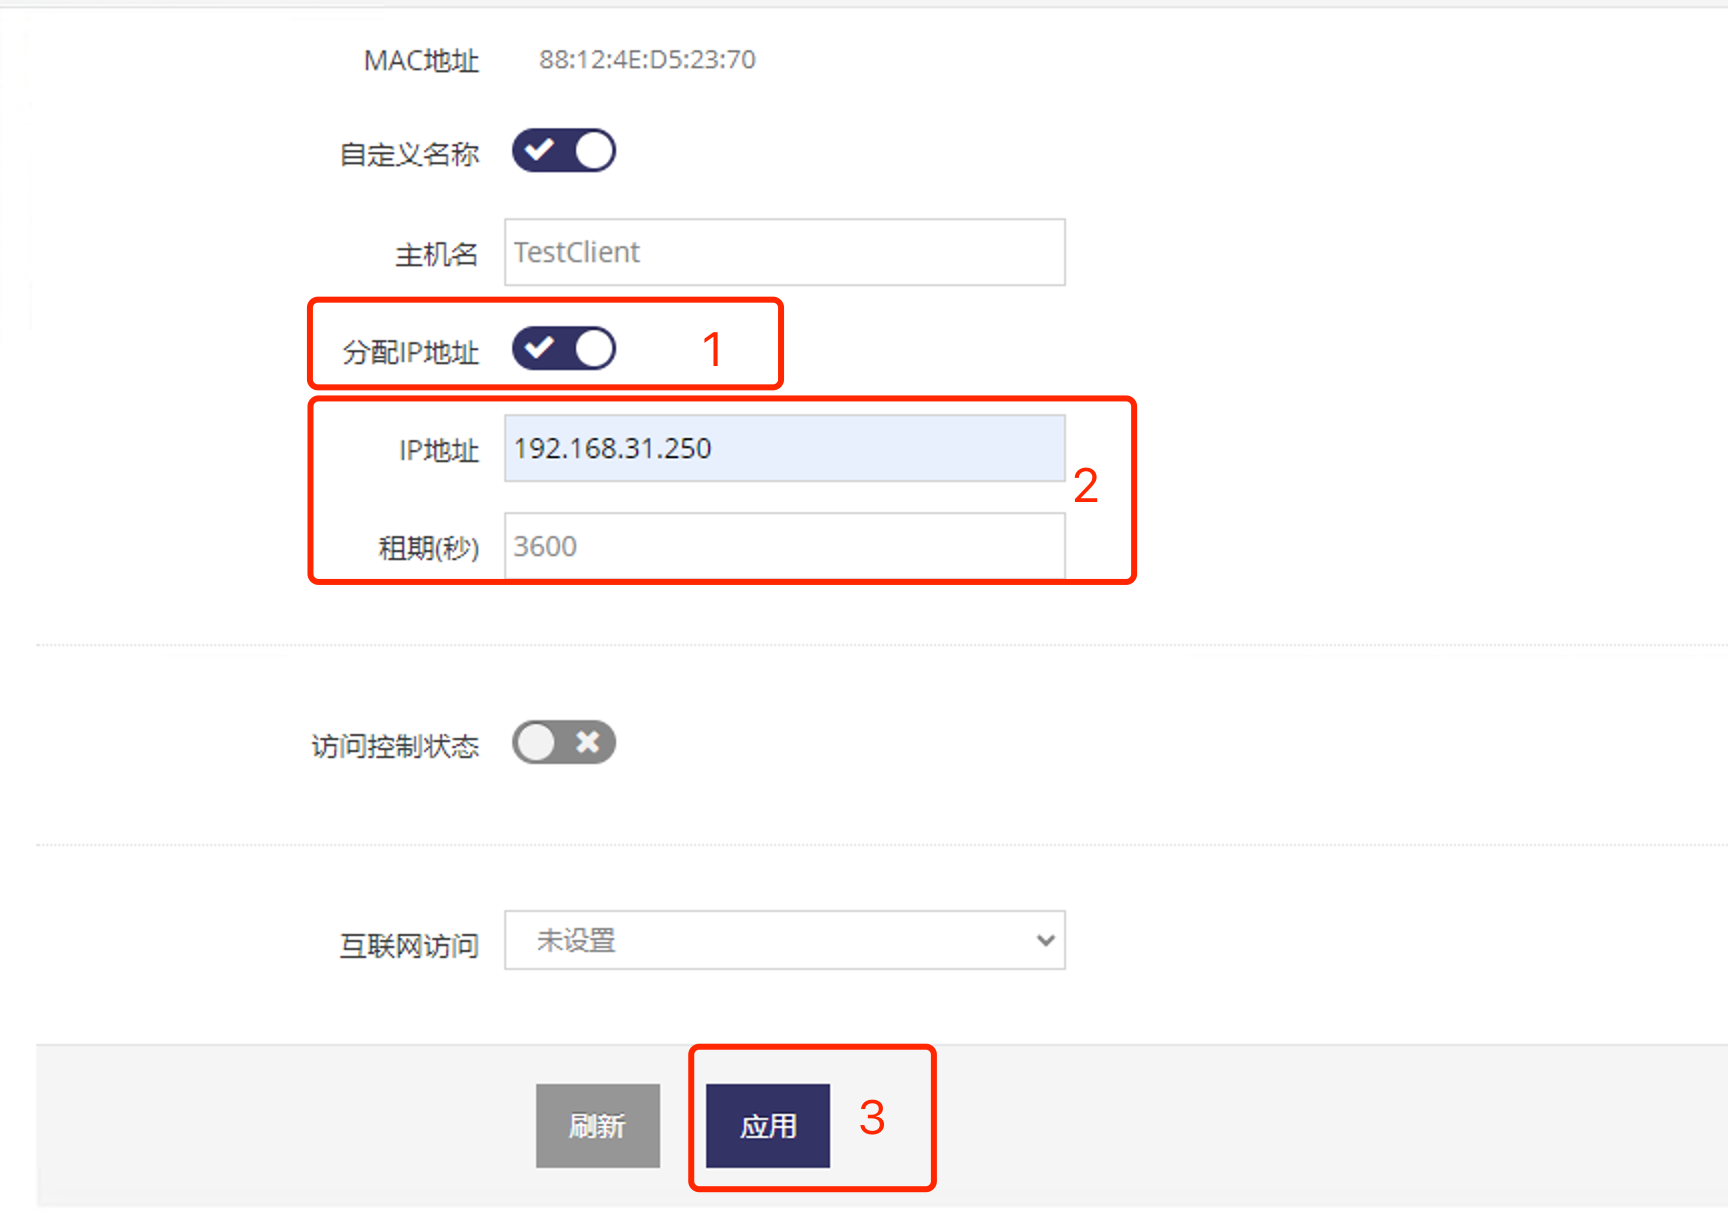
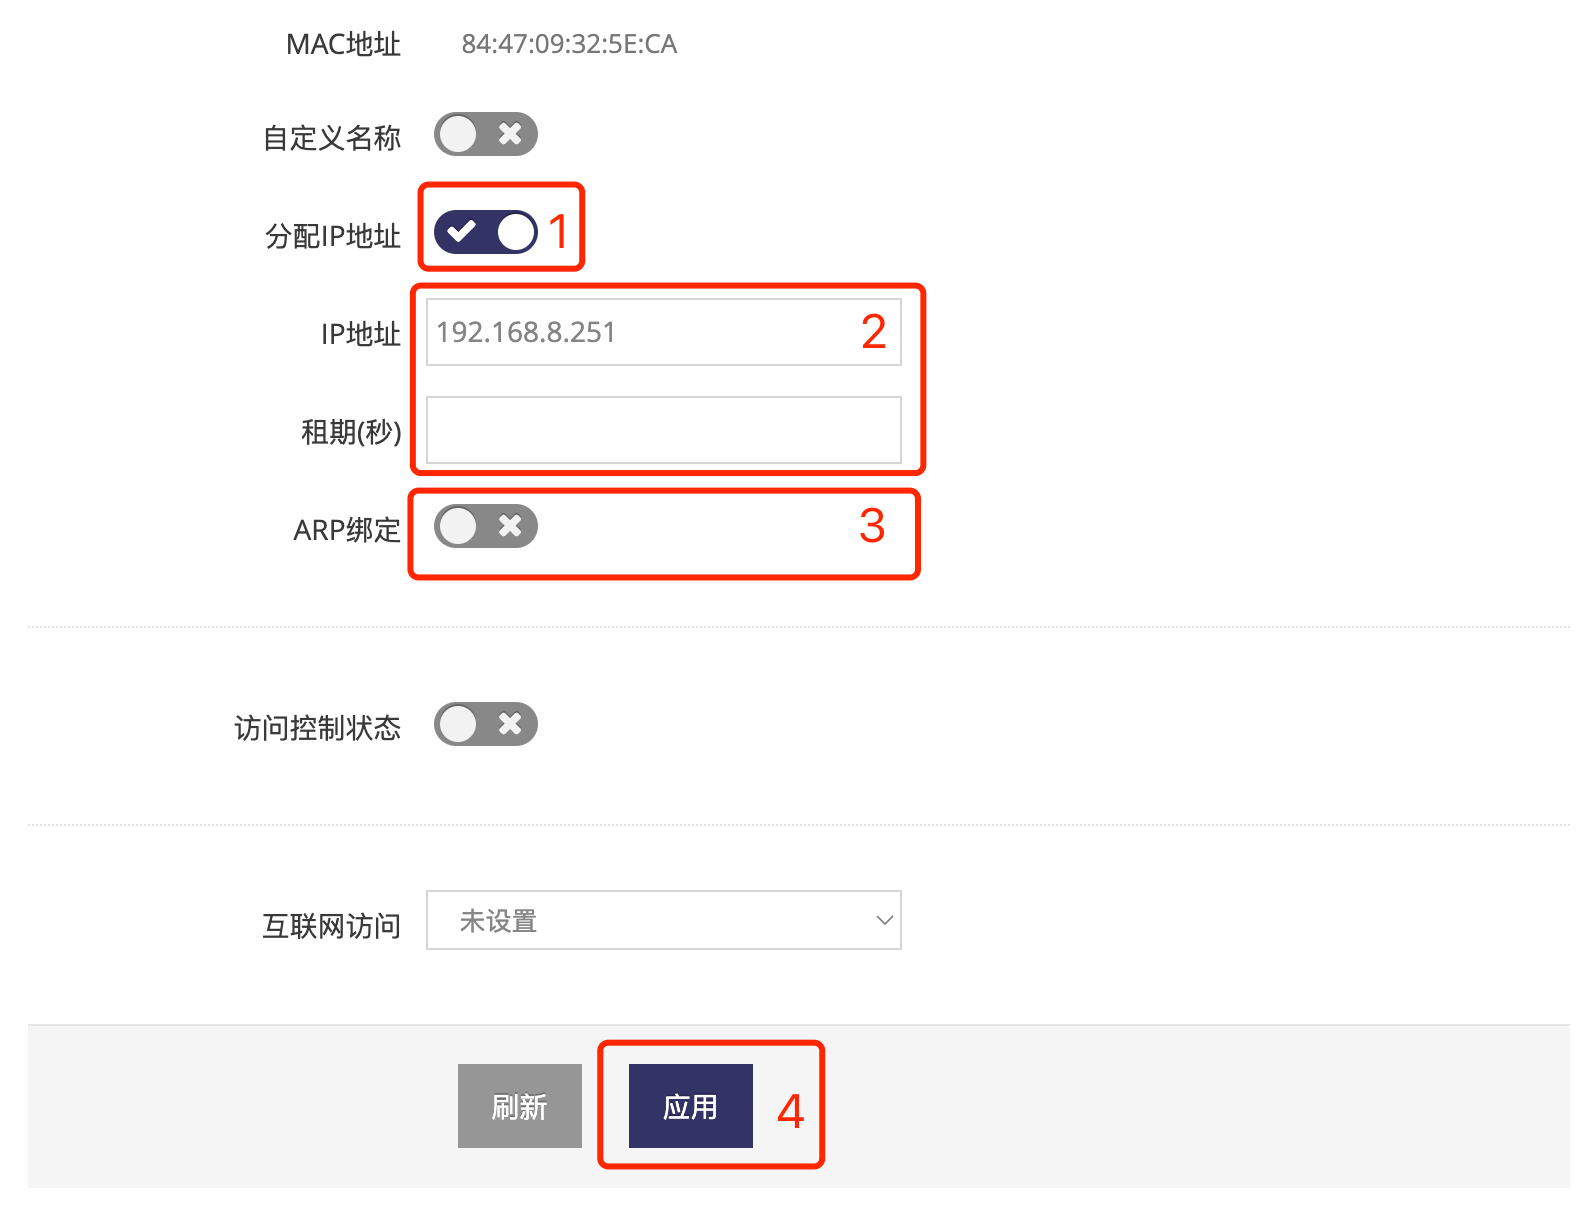
add the firewall

diff --git a/dev/include/land/skinhead.h b/dev/include/land/skinhead.h
@@ -173,6 +173,8 @@ typedef int boole;
 #define ETC_DNS_FILE  "/etc/resolv.conf"
 #define ETC_DNS6_FILE  "/etc/resolv.conf.ipv6"
 #define RESOLV_DIR  PROJECT_TMP_DIR"/resolv"
+#define PROC_ARP_FILE "/proc/net/arp"
+
 
 
 
@@ -233,6 +235,8 @@ typedef int boole;
 #define STATION_COM "client@station"
 #define STATION_GLOBAL_COM "client@global"
 #define STATION_DEFAULT_COM "client@default"
+#define STATION_ARP_COM "client@arp"
+#define STATION_IPCAT_COM "client@ipcat"
 #define STATION_DHCPS_COM "client@dhcps"
 #define STATION_ACL_COM "client@acl"
 #define STATION_LIMIT_COM "client@limit"

diff --git a/use/firewall/allow_access_cn.md b/use/firewall/allow_access_cn.md
@@ -1,0 +1,44 @@
+***
+
+## 允许外网访问路由器指定的服务   
+
+### 进入防火墙设置界面指定接口   
+- 点击 **红框1** **网络** 下的 **红框2** **防火墙** 进入 **防火墙设置界面**   
+![avatar](./firewall_interface_cn.jpg)    
+- 针对 **外网接口** 及 **VPN接口** 可单独指定不同的防火墙规则, **红框3** 用于选择配置哪个接口上的防火墙   
+
+### 常用的防火墙选项   
+![avatar](./firewall_macro_cn.jpg)    
+- **红框1** 状态用于 **启用** 或是 **禁用** 防火墙, 禁用防火墙将导致所有的外网访问数据都可以进入网关  
+- **红框2** 用于选择防火墙默认的行为
+    - **禁止外网访问** 表示丢弃所有外网访问网关的数据
+    - **允许外网访问** 表示允许所有外网访问网关   
+- **红框3** **允许PING(ICMP)** 开启则允许外网通过PING(ICMP)访问网关   
+- **红框3** **允许IPSEC(ESP/AH)** 开启则允许外网IPSEC(ESP/AH)协议数据访问网关   
+- **红框3** **允许Telnet访问** 开启则允许外网通过Telnet访问网关   
+- **红框3** **允许SSH访问** 开启则允许外网通过SSH访问网关    
+- **红框3** **允许WEB访问** 开启则允许外网通过WEB访问网关    
+- **红框3** **放行PING(ICMP)包** 开启则允行外网通过PING(ICMP)访问网关上局域网的设备   
+- **红框3** **放行IPSEC(ESP/AH)包** 开启则允行外网通过IPSEC(ESP/AH)访问网关上局域网的设备   
+- **红框3** **放行NAT规则** 开启则允行在 **[端口映射使用说明](./portmap/portmap_cn.md)** 中设置的NAT规则访问   
+- 点选后点击 **红框4** 应用即可
+
+### 自定义防火墙放行或禁止规则   
+如防火墙选项未给出合适的操作也可以通过自行添加规则来实现   
+![avatar](./firewall_rule_cn.jpg)    
+- 点击 **红框1** 弹出添加规则对话框   
+- 在 **红框2** 中可以自定义规则的名称, 可以字母数字等   
+- 在 **红框3** 可指定外网地址, 空表示所有的外网地址   
+    - 多个IP地址以 **,号** 分隔   
+    - 也支持指定一个IP段, 起始地址与结束地址间用 **-号** 隔开即可   
+- 在 **红框4** **局域网地址** 中指定终端地址, 空表示网关本身   
+    - 多台终端IP地址以 **,号** 分隔   
+    - 也支持指定一个IP段, 起始地址与结束地址间用 **-号** 隔开即可   
+    - 也可以填写终端的MAC地址, MAC地址格式如 **00:03:7E:56:21:31**, 一个输入框中MAC地址不支持填写多个   
+- 在 **红框4** **协议** 中可指定协议   
+    - **TCP**, **UDP** 则可指定端口号   
+    - **所有** 表示所有的协议   
+- 在 **红框5** 选择策略, 可选 **允许外网访问** 或 **禁止外网访问**   
+- 填写好后点击 **红框6** 提交即完成添加
+- 添加好所有的规则后点击 **红框7** 的应用即可立即应用   
+

diff --git a/use/client/bind_ip_cn.md b/use/client/bind_ip_cn.md
@@ -1,29 +1,31 @@
 ***
 
-## 为终端分配指定的IP地址   
+## 为终端分配(绑定)指定的IP地址   
 
 默认电脑或是设备连上网关后, 网关会随机分配 **[本地网络分配地址段](../lan/dhcps_cn.md)** 中的配置 **地址池** 中的地址   
-
 通过如下设置可为电脑或是设备分配指定的IP地址, 前提是必须知道电脑或是设备的 **MAC地址**   
 
+### 为已连接网关的设备指定IP地址   
 - 点击 **红框1** **终端** 菜单下的 **红框2** **终端列表** 进入 **终端列表管理界面**   
-
+- 查看 **红框3** 列表中找到设备对应的MAC地址所在的行   
 ![avatar](./bind_ip_list_cn.jpg)   
- 
-- 查看 **红框3** 列表, 确认设备是否存在, 如果不存在执行以下操作添加   
+- 点击对应设备所在行 **红框4** **小扳手** 进点对应的 **终端设置界面**   
 
-    - 如果不在则点击 **红框4** **加号** 添加, 点击后会弹出添加窗口   
-    ![avatar](./bind_ip_add_cn.jpg) 
-    - 在添加窗口中 **红框1** 可选输入设备的 **主机名**   
-    - 在添加窗口中 **红框1** 输入设备的 **MAC地址** 提交即可添加   
-
-![avatar](./bind_ip_enter_cn.jpg)   
-
-- 点击设备所在行 **红框1** **小扳手** 进点对应的 **终端设置界面**   
-
-![avatar](./bind_ip_bind_cn.jpg) 
-
+![avatar](./bind_ip_bind_cn.jpg)   
 - 点击 **红框1** 启用 **分配IP地址**   
 - 在 **红框2** **IP地址** 输入要设备分本的IP地址   
-- 在 **红框2** **租期(秒)** 指定租期, 空则使用 **[本地网络分配地址段](../lan/dhcps_cn.md)** 中配置的 **租期**   
+- **红框2** **租期(秒)** 指定租期, 空则使用 **[本地网络分配地址段](../lan/dhcps_cn.md)** 中配置的 **租期**   
+- **红框3** **ARP绑定** 选择是否开启ARP绑定, **绑定后对应的IP不是当前MAC则无法通信**   
 - 之后点击 **红框3** 应用即可   
+
+**添加后通过设备不会立马改变IP地址, 需要断开设备与网关的连接后重新连接即可**
+
+### 为未连接网关的设备指定IP地址   
+
+- 未连接网关的设备在 **终端列表管理界面** 无法看到, 需要先添加设备的MAC地址, 点击 **红框1** **加号** 添加, 点击后会弹出添加窗口   
+![avatar](./bind_ip_add_cn.jpg)   
+- 在添加窗口中 **红框2** 可选输入设备的 **主机名**   
+- 在添加窗口中 **红框3** 输入设备的 **MAC地址** 后点击 **红框4** 提交即可
+![avatar](./bind_ip_enter_cn.jpg)   
+- 然后在 **终端列表管理界面** 可以看到新添加的设备
+- 之后就可以按 **为已连接网关的设备指定IP地址** 方法为设备指定IP地址   

diff --git a/use/portmap/portmap_cn.md b/use/portmap/portmap_cn.md
@@ -28,20 +28,16 @@
 ### 添加端口映射规则   
 
 - 点击 **红框1** **网络** 菜单下的 **红框2** **端口映射** 进入 **端口映射管理界面**   
-- **红框3** 选择针对的外部网络, 如使用LTE(4G)拨号上网则选择 **4G网络** 即可   
-
+- 针对 **外网接口** 及 **VPN接口** 可单独指定不同的端口映射规则, **红框3** 则是用于选择这些接口, 如使用LTE(4G)拨号上网则选择 **4G网络** 即可   
 ![avatar](./portmap_webpage_cn.png)  
-
 - 点击 **红框5** 即可添加对应的端口映射规则    
-
 ![avatar](./portmap_add_cn.png)   
-
 - 点击 **红框1** 后即弹出 **添加记录** 的对话框   
 - 在对话框的 **红框2** 填写用户自定义的 **名称**   
-- 在对话框的 **红框2** 填写网关的 **端口**, LTE地址上的此端口将会映射到设备上的端口   
-- 在对话框的 **红框3** 选择协议类型, 大部分应用都是TCP的协议   
-- 在对话框的 **红框4** 填写设备的IP地址, 如基本应用示例中 **网络摄像头(Camera)** 或 **PLC(可编程逻辑控制器)** 的地址   
-- 在对话框的 **红框5** 填写设备的服务端口, 即 **网络摄像头(Camera)** 通常是80端口, 而 **PLC(可编程逻辑控制器)** 是502端口   
+- 在对话框的 **红框3** 填写网关的 **端口**, LTE地址上的此端口将会映射到设备上的端口   
+- 在对话框的 **红框4** 选择协议类型, 大部分应用都是TCP的协议   
+- 在对话框的 **红框5** 填写设备的IP地址, 如基本应用示例中 **网络摄像头(Camera)** 或 **PLC(可编程逻辑控制器)** 的地址   
+- 在对话框的 **红框6** 填写设备的服务端口, 即 **网络摄像头(Camera)** 通常是80端口, 而 **PLC(可编程逻辑控制器)** 是502端口   
 - 之后点击 **红框7** 的提交按键即可, 等待添加好所有的映射规则后点击 **应用** 即完成设置       
 
 ### 针对以上图示示例添加对应的规则    

diff --git a/use/readme_cn.md b/use/readme_cn.md
@@ -56,11 +56,9 @@ SkinOS为一个基于Linux的操作系统, 运行于 **网关** 或 **路由器*
 
 ### 4G/5G联网设置   
 - **连接普通的4G(LTE)网络**   
-
     1. 网关插上SIM卡后   
     2. 将设备的 **工作模式** 设置为 **4G网关**, 4G网关默认即为此模式    
     网关就会自动通过4G(LTE)连上互联网, 不需要任何设置, 将终端设备或电脑通过有线或无线连接网关即可访问互联网   
-
 - **连接普通的5G(NR)网络**   
     1. 网关插上SIM卡后    
     2. 将设备的 **工作模式** 设置为 **4G/5G网关**, 4G网关默认即为此模式     
@@ -104,7 +102,7 @@ SkinOS为一个基于Linux的操作系统, 运行于 **网关** 或 **路由器*
 - **[本地网络地址设置](./lan/lan_ip_cn.md)**   
 - **[本地网络设置多个地址](./lan/lan_mip_cn.md)**   
 - **[本地网络分配地址段(DHCP服务器)设置](./lan/dhcps_cn.md)**   
-- **[为终端分配指定的IP地址](./client/bind_ip_cn.md)**   
+- **[为终端分配(绑定)指定的IP地址](./client/bind_ip_cn.md)**   
 
 ### 系统管理   
 - **[修改网关的名称](./system/name_cn.md)**   
@@ -134,7 +132,7 @@ SkinOS为一个基于Linux的操作系统, 运行于 **网关** 或 **路由器*
 - **[中继其它热点](./wifi/sta_cn.md)**   
 
 ### 防火墙   
-- ***[允许外网访问路由器指定的服务](./firewall/allow_access.md)**(编写中)*   
+- **[允许外网访问路由器指定的服务](./firewall/allow_access_cn.md)**   
 
 ### 端口映射或代理   
 - **[端口映射使用说明](./portmap/portmap_cn.md)**   

diff --git a/com/client/station.md b/com/client/station.md
@@ -11,6 +11,7 @@ Management of specified client access
         "ifname":"specify on interface name",                 // [ string ], defdault the ifname@lan
         "name":"specify hostname",                            // [ string ]
         "bindip":"specify ip address on dhcp assignment",     // [ string ]
+        "arpbind":"bind ip set the arp table",                // [ "disable", "enable" ]
         "lease":"specify lease on dhcp assignment",           // [ number ]
 
         // access internet privilege
